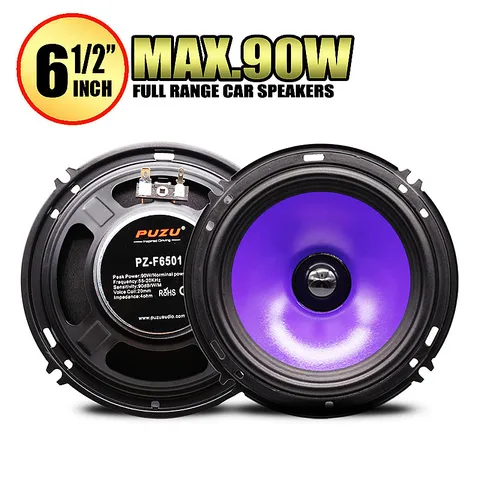
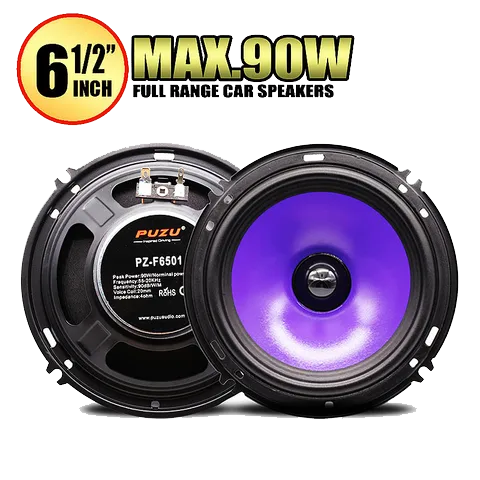
fix migrations, fix products images, fix translations words and add catalog page in filter products

diff --git a/migrations/20240913035200-accessories.js b/migrations/20240913035200-accessories.js
@@ -3,11 +3,27 @@ const { faker } = require('@faker-js/faker')
 
 const getRandomArrayValue = (arr) => arr[Math.floor(Math.random() * arr.length)]
 
+const getRandomImages = (imgArr) => {
+  if (imgArr.length < 2) {
+    throw new Error('В массиве должно быть минимум 2 изображения')
+  }
+
+  const shuffled = [...imgArr]
+
+  for (let i = shuffled.length - 1; i > 0; i--) {
+    const j = Math.floor(Math.random() * (i + 1))
+    ;[shuffled[i], shuffled[j]] = [shuffled[j], shuffled[i]]
+  }
+
+  return shuffled.slice(0, 2)
+}
+
 const images = [
-  '/img/accessories/accessories-1.jpg',
-  '/img/accessories/accessories-2.jpg',
-  '/img/accessories/accessories-3.jpg',
-  '/img/accessories/accessories-4.jpg',
+  '/img/accessories/accessories-1.png',
+  '/img/accessories/accessories-2.png',
+  '/img/accessories/accessories-3.png',
+  '/img/accessories/accessories-4.png',
+  '/img/accessories/accessories-5.png',
 ]
 
 const accessoriesTypes = ['video-recorder', 'charger', 'fastening']
@@ -37,7 +53,7 @@ module.exports = {
           name: faker.lorem.sentence(2),
           description: faker.lorem.sentences(10),
           characteristics: characteristics.find((item) => item.type === type),
-          images: getRandomArrayValue(images),
+          images: getRandomImages(images),
           vendorCode: faker.string.numeric(4),
           inStock: faker.string.numeric(2),
           isBestseller: faker.datatype.boolean(),

diff --git a/migrations/20240913030549-speakers.js b/migrations/20240913030549-speakers.js
@@ -7,17 +7,17 @@ const speakersTypes = ['coaxial', 'component', 'fullRange']
 
 const images = {
   component: [
-    '/img/speakers/speaker-component-1.jpg',
+    '/img/speakers/speaker-component-1.png',
     '/img/speakers/speaker-component-2.png',
   ],
   coaxial: [
-    '/img/speakers/speaker-coax-1.jpg',
-    '/img/speakers/speaker-coax-2.jpg',
+    '/img/speakers/speaker-coax-1.png',
+    '/img/speakers/speaker-coax-2.png',
   ],
   fullRange: [
-    '/img/speakers/speaker.jpg',
+    '/img/speakers/speaker.png',
     '/img/speakers/speaker-2.png',
-    '/img/speakers/speaker-oval.jpg',
+    '/img/speakers/speaker-oval.png',
   ],
 }
 
@@ -39,9 +39,6 @@ const getImageByType = (type) => {
   }
   return imageArray[Math.floor(Math.random() * imageArray.length)]
 }
-
-const getRandomSpeakerType = () =>
-  speakersTypes[Math.floor(Math.random() * speakersTypes.length)]
 
 module.exports = {
   async up(db) {
@@ -75,7 +72,7 @@ module.exports = {
           name: faker.lorem.sentence(2),
           description: faker.lorem.sentences(10),
           characteristics: characteristics.find((item) => item.type === type),
-          images: getImageByType(getRandomSpeakerType()),
+          images: [getImageByType(type), getImageByType(type)],
           vendorCode: faker.string.numeric(4),
           inStock: faker.string.numeric(2),
           isBestseller: faker.datatype.boolean(),

diff --git a/components/templates/ProductsPage/ProductsPage.tsx b/components/templates/ProductsPage/ProductsPage.tsx
@@ -4,9 +4,9 @@ import { motion } from 'framer-motion'
 import { useProductFilters } from '@/hooks/useProductFilters'
 import { IProductsPage } from '@/types/catalog'
 import { basePropsForMotion } from '@/constants/motion'
+import ProductListItem from '@/components/modules/ProductListItem/ProductListItem'
 import styles from '@/styles/catalog/index.module.scss'
 import skeletonStyles from '@/styles/skeleton/index.module.scss'
-import ProductListItem from '@/components/modules/ProductListItem/ProductListItem'
 
 const ProductsPage = ({ searchParams, pageName }: IProductsPage) => {
   const { products, productsSpinner, paginationProps, handlePageChange } =

diff --git a/migrations/20240806034110-audio.js b/migrations/20240806034110-audio.js
@@ -35,12 +35,21 @@ const sizes = {
 }
 
 const images = {
-  '1din': ['/img/audio/audio-1din.png', '/img/audio/audio-1din_2.png'],
+  '1din': [
+    '/img/audio/audio-1din.png',
+    '/img/audio/audio-1din_2.png',
+    '/img/audio/audio-1din_3.png',
+    '/img/audio/audio-1din_4.png',
+    '/img/audio/audio-1din_5.png',
+    '/img/audio/audio-1din_6.png',
+  ],
   '2din': [
     '/img/audio/audio-2din.png',
     '/img/audio/audio-2din_2.png',
     '/img/audio/audio-2din_3.png',
     '/img/audio/audio-2din_4.png',
+    '/img/audio/audio-2din_5.png',
+    '/img/audio/audio-2din_6.png',
   ],
 }
 

diff --git a/app/catalog/page.tsx b/app/catalog/page.tsx
@@ -1,3 +1,10 @@
-export default function Catalog() {
-  return <h1>Catalog</h1>
+import ProductsPage from '@/components/templates/ProductsPage/ProductsPage'
+import { SearchParams } from '@/types/catalog'
+
+export default function Catalog({
+  searchParams,
+}: {
+  searchParams?: SearchParams
+}) {
+  return <ProductsPage searchParams={searchParams || {}} pageName='catalog' />
 }

diff --git a/components/layouts/ComparisonLayout.tsx b/components/layouts/ComparisonLayout.tsx
@@ -55,7 +55,7 @@ const ComparisonLayout = ({ children }: { children: React.ReactNode }) => {
               ) : (
                 <ComparisonLinksList
                   links={availableProductLinks}
-                  className={styles.comparison__list}
+                  className={styles.comparison_links}
                 />
               ))}
             <div>

diff --git a/components/modules/Comparison/ComparisonLinksList.tsx b/components/modules/Comparison/ComparisonLinksList.tsx
@@ -13,7 +13,7 @@ const ComparisonLinksList = ({
       <li key={item.title} className={`${item.isActive ? styles.active : ''}`}>
         <Link href={item.href}>
           <span>{item.title}</span>
-          <span>{item.itemsCount}</span>
+          <span>{item.itemsCount} -шт</span>
         </Link>
       </li>
     ))}
